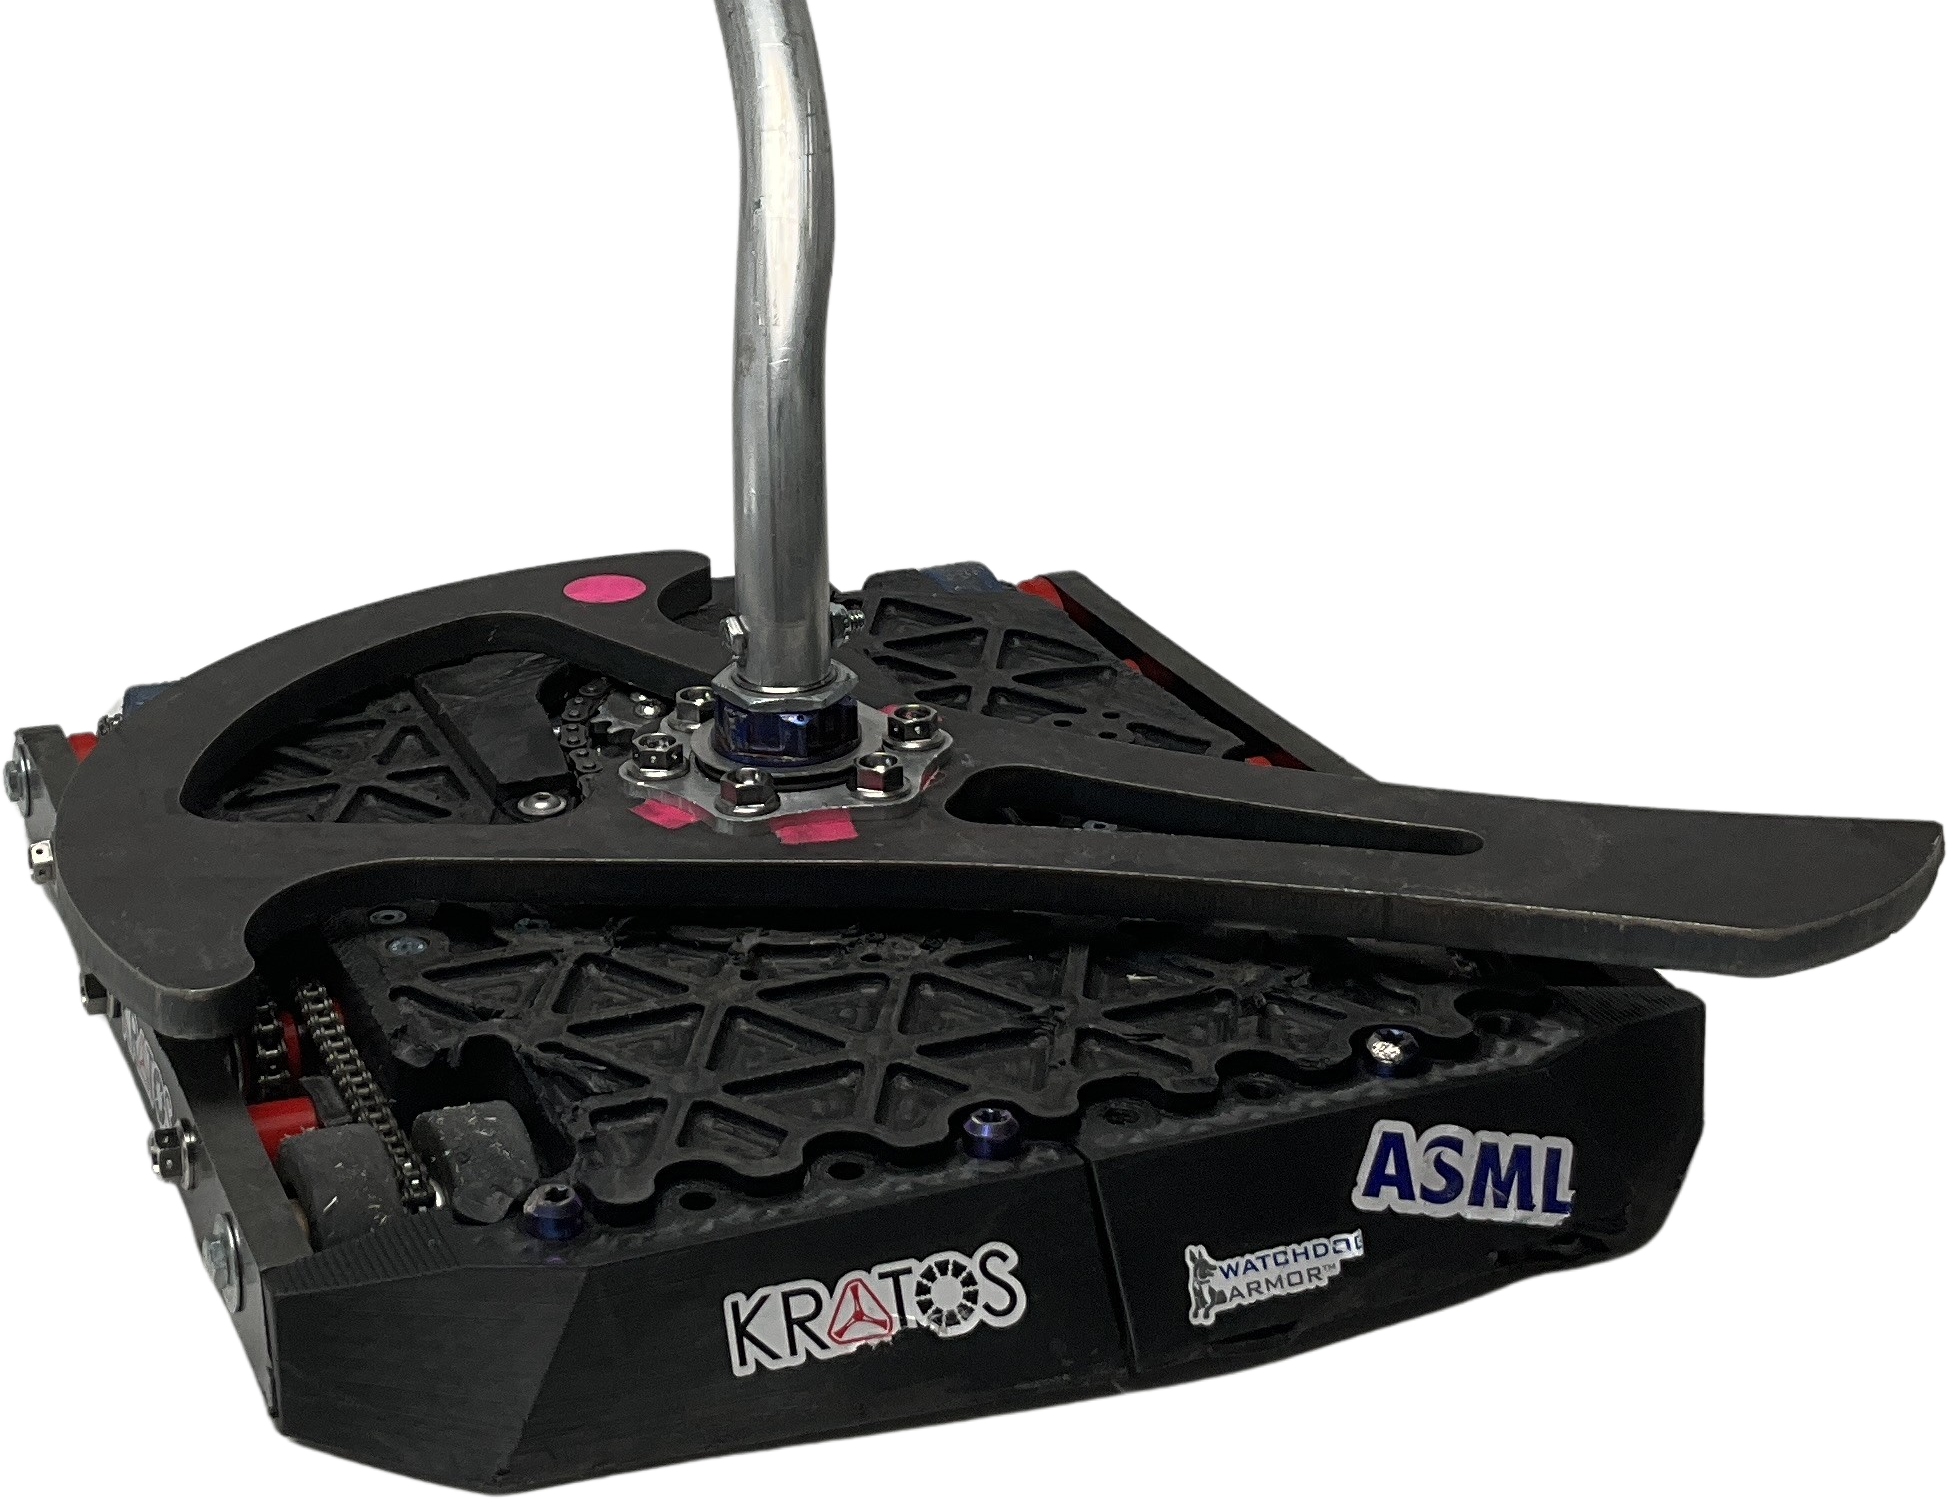
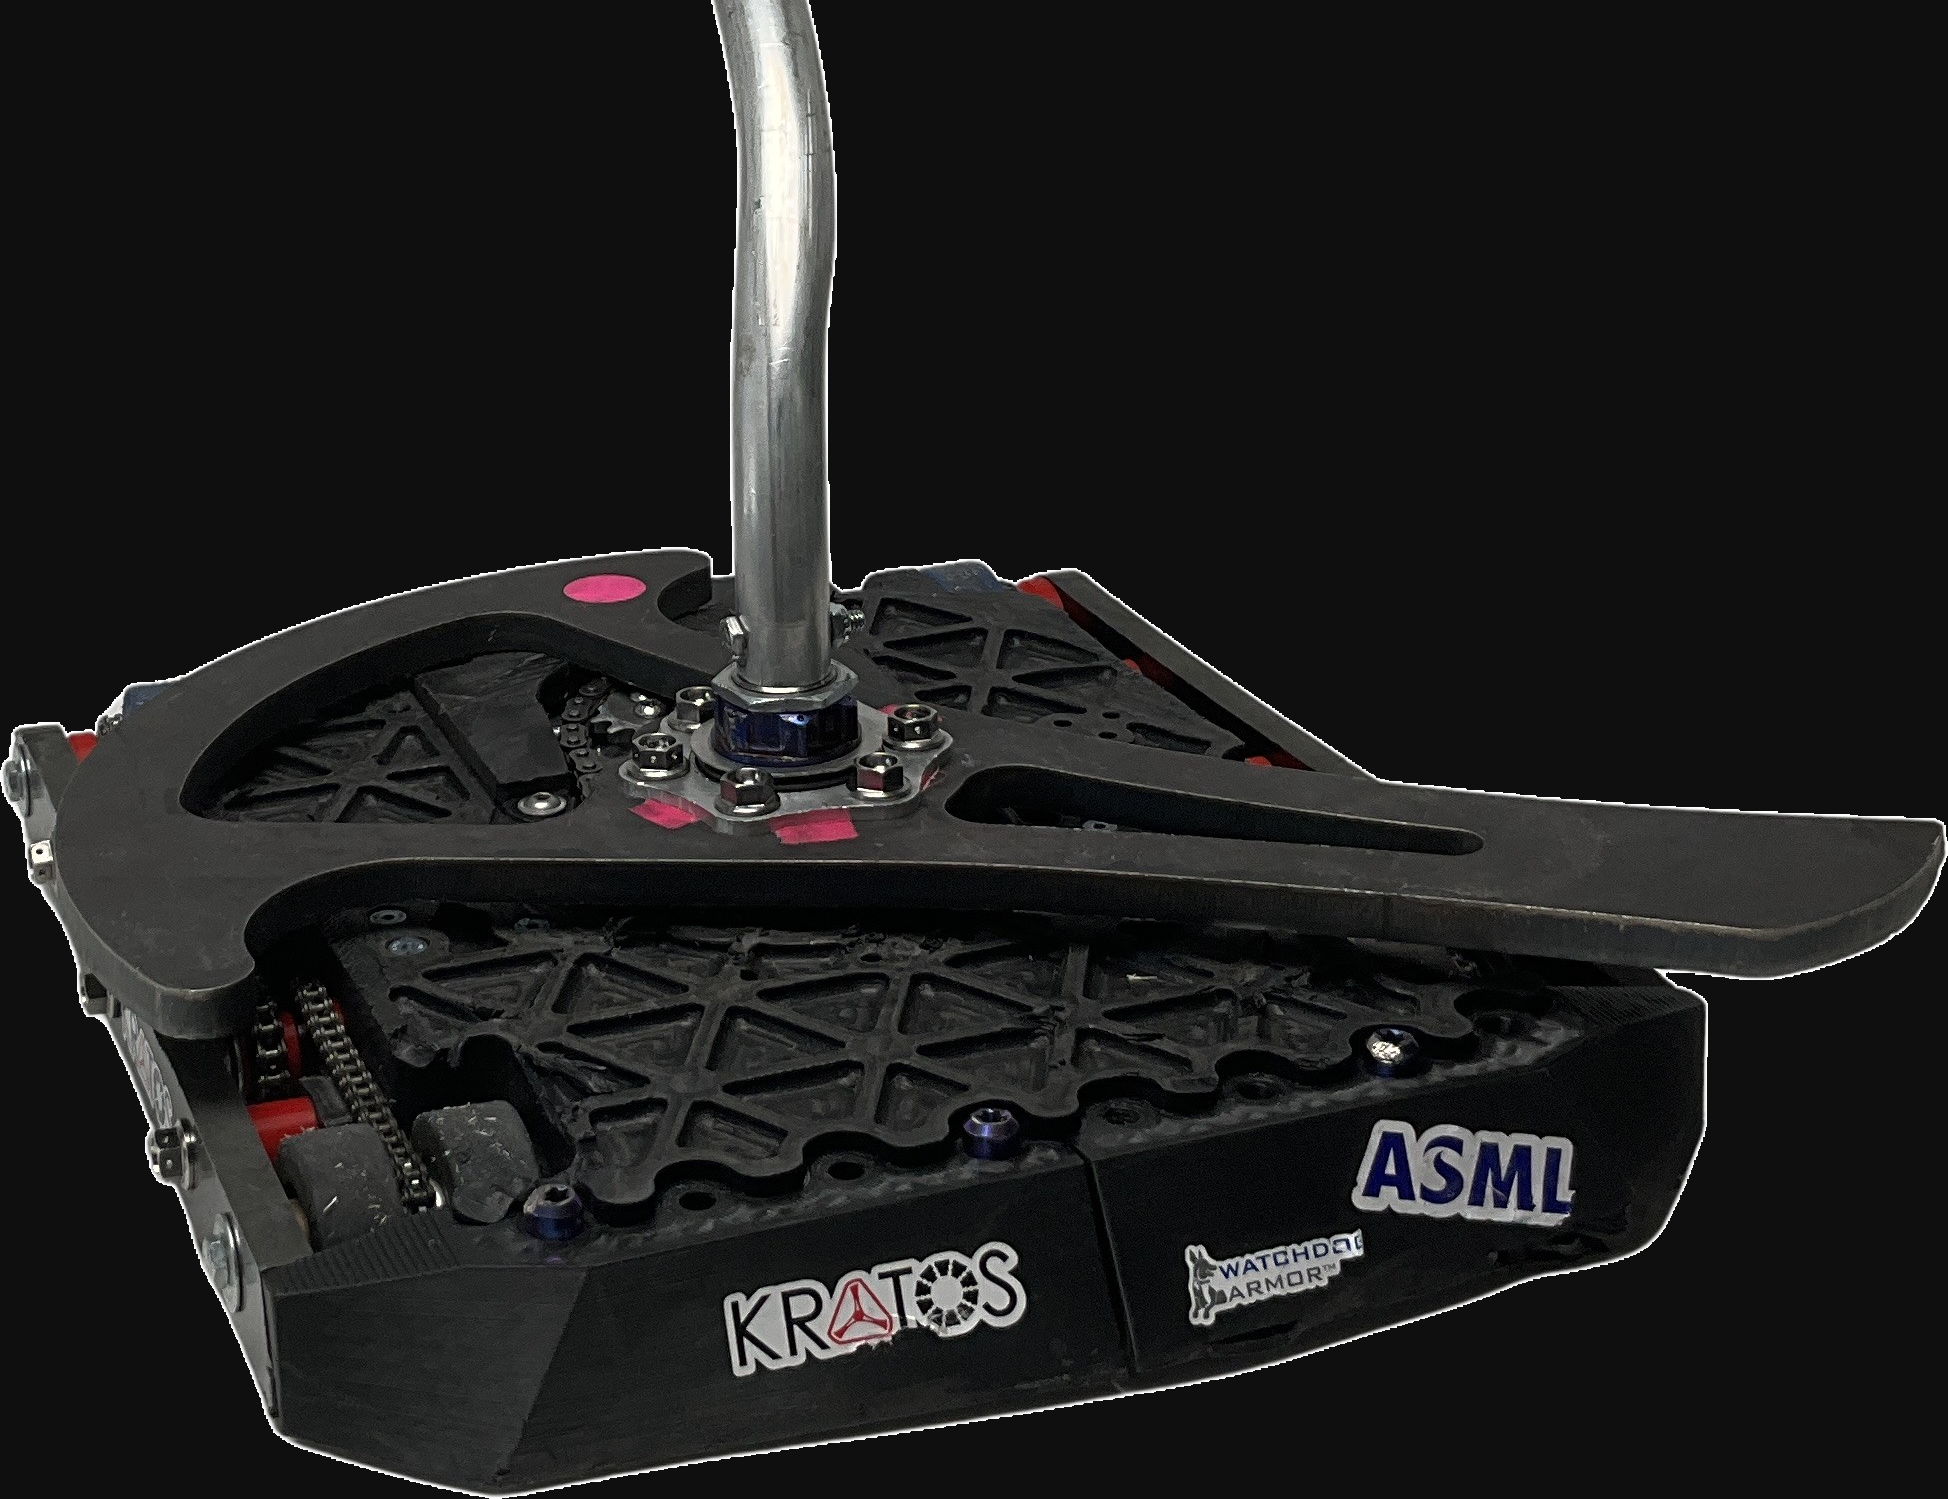
Updated KRATOS Thumbnail
Changed the KRATOS thumbnail to one without a transparent background to fix color issue.

diff --git a/index.html b/index.html
@@ -1,7 +1,6 @@
 <!DOCTYPE html>
 <html>
 <head>
-    <!--Importing some libraries that make the splides work--->
     <link rel="stylesheet" href="https://cdn.jsdelivr.net/npm/@splidejs/splide@latest/dist/css/splide.min.css">
     <link rel="stylesheet" href="docs/assets/css/style.css">
     <link href="https://fonts.googleapis.com/css2?family=JetBrains+Mono:wght@400;700&display=swap" rel="stylesheet">
@@ -9,7 +8,6 @@
     <script src="https://cdn.jsdelivr.net/npm/@splidejs/splide@latest/dist/js/splide.min.js"></script>
     <script defer src="app.js"></script>
 
-    <!--This helps define the webpage-->
     <meta charset="UTF-8">
     <meta name="viewport" content="width=device-width, initial-scale=1.0">
     <title>Elijah Haga's Portfolio</title>
